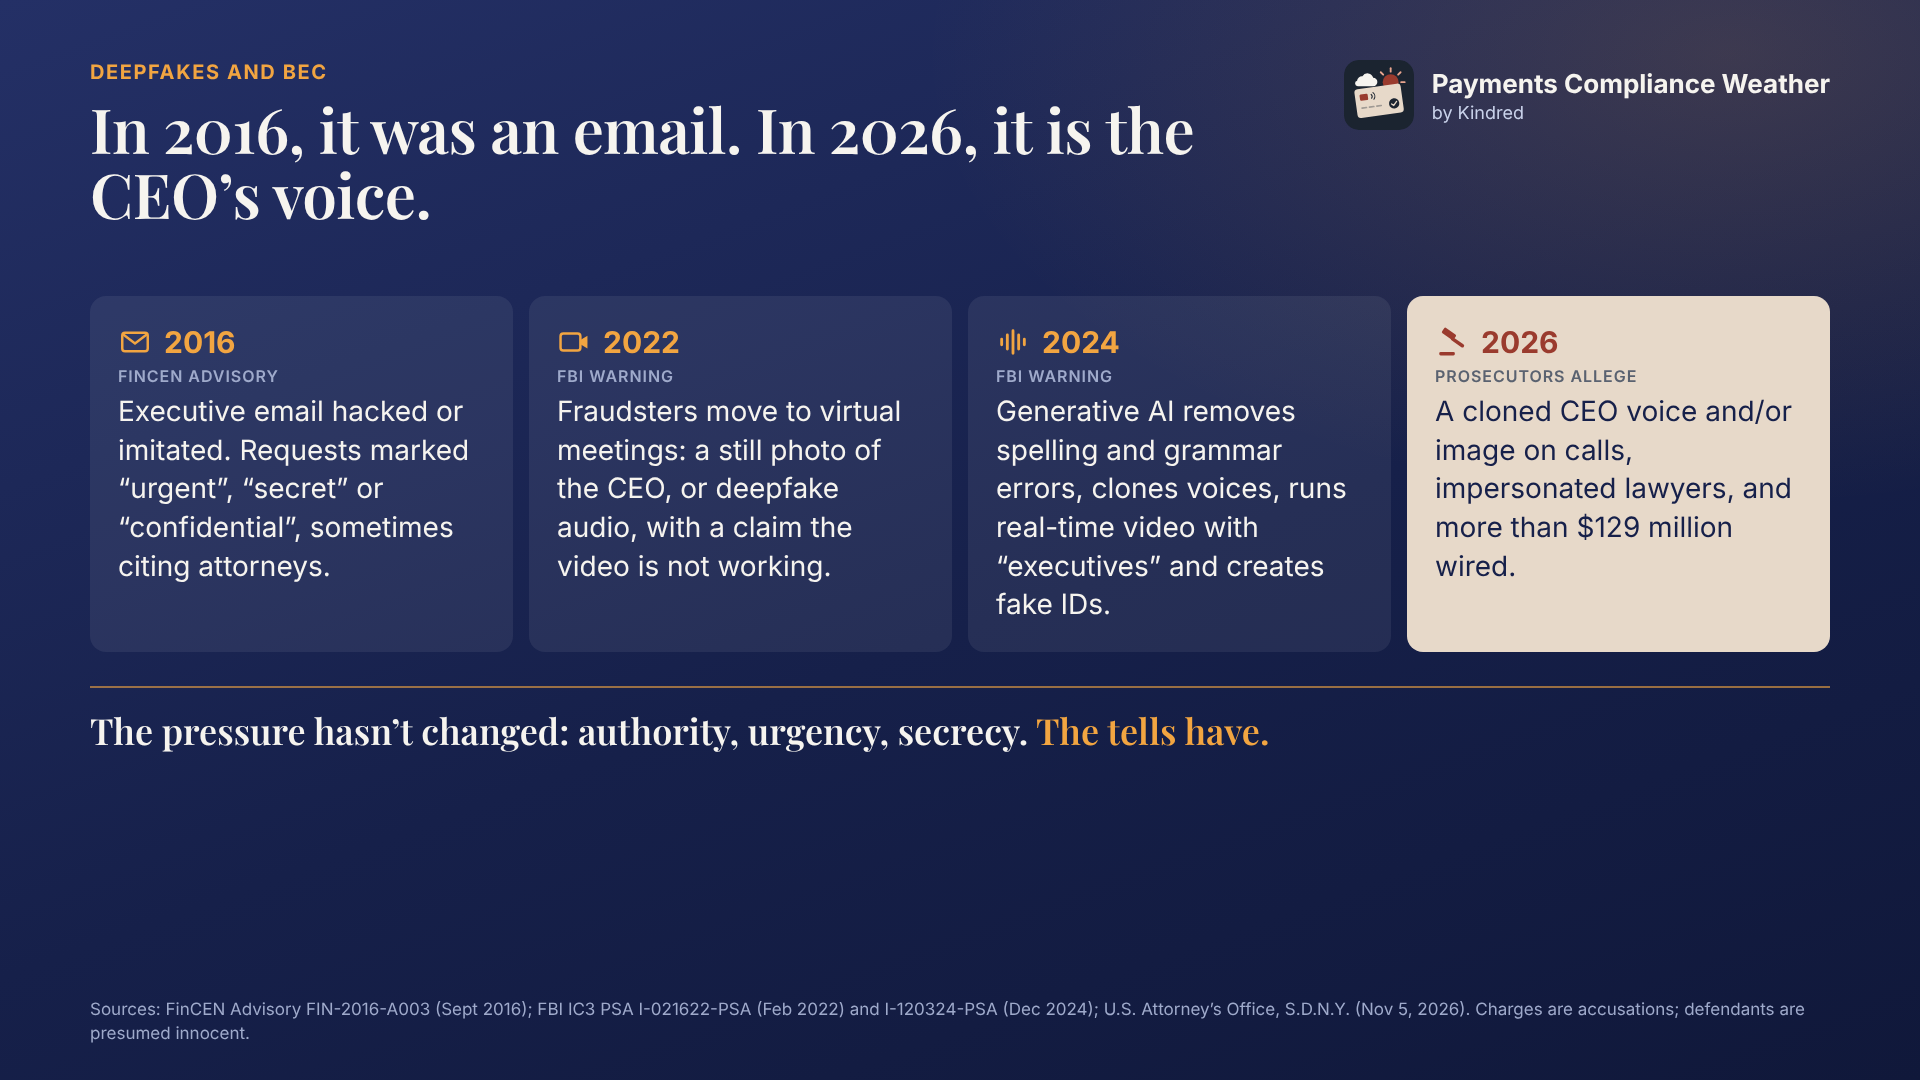
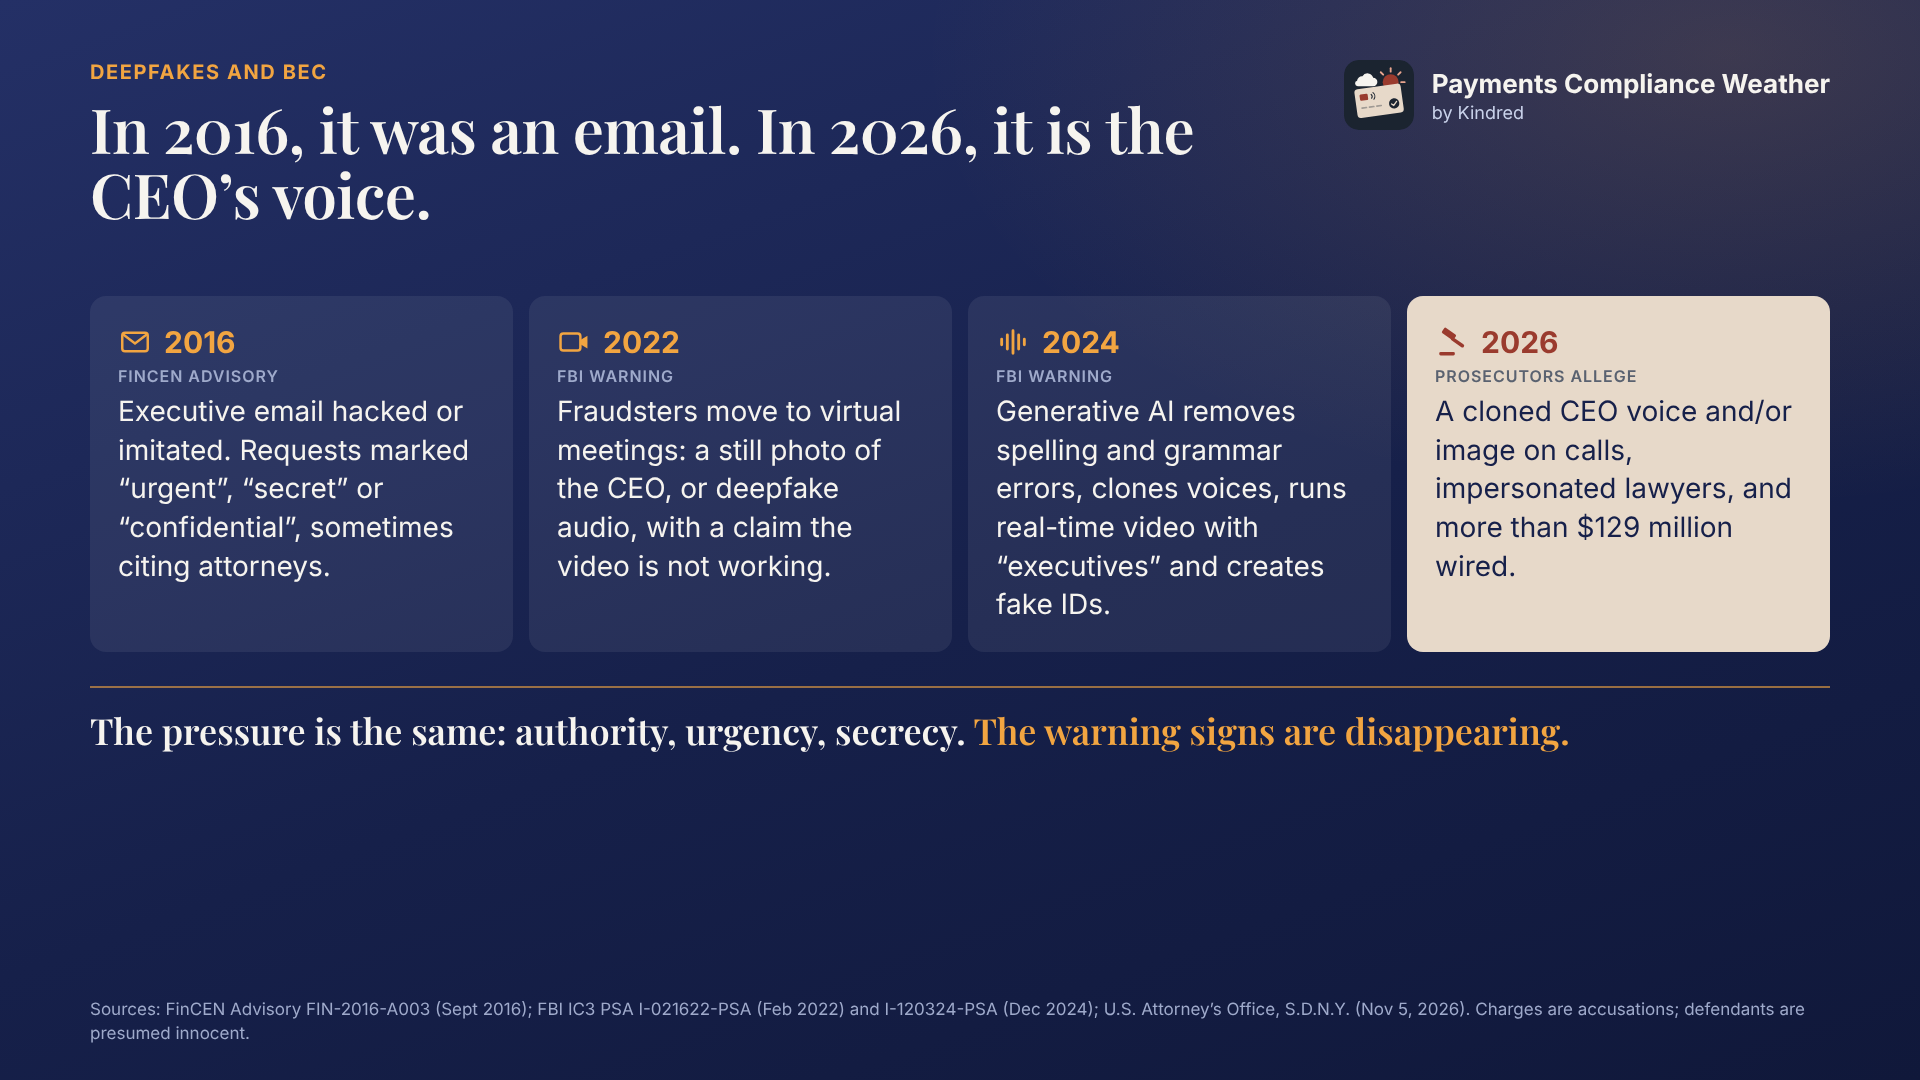
Clearer closing line on timeline
Claude-Session: https://claude.ai/code/session_01Ku5heUpjigKdLqPfQp8BWG

Changed region(s): [[0.1562, 0.6722, 0.8125, 0.7028]]

diff --git a/article-ai-impersonation-wire-fraud.html b/article-ai-impersonation-wire-fraud.html
@@ -70,7 +70,7 @@
         <li><strong>2022:</strong> the FBI <a href="https://www.ic3.gov/PSA/2022/PSA220216" target="_blank" rel="noopener">reported</a> fraudsters moving to virtual meetings, showing a still picture of the CEO or using deepfake audio and claiming the video was not working.</li>
         <li><strong>2024:</strong> the FBI <a href="https://www.ic3.gov/PSA/2024/PSA241203" target="_blank" rel="noopener">warned</a> that generative AI lets criminals limit spelling and grammar errors, clone voices, hold real-time video chats posing as company executives and create fake identity documents, at a larger scale.</li>
       </ul>
-      <p><strong>The pressure hasn&rsquo;t changed: authority, urgency, secrecy. The tells have.</strong></p>
+      <p><strong>The pressure is the same: authority, urgency, secrecy. The warning signs are disappearing.</strong></p>
       <figure class="post-photo art-cover"><img src="articles/img/pcw-impersonation-timeline-1920x1080.png" alt="Timeline: In 2016, it was an email. In 2026, it is the CEO&rsquo;s voice. 2016 FinCEN advisory, 2022 FBI warning, 2024 FBI warning, 2026 charges." width="1920" height="1080" loading="lazy"></figure>
       <h2>How it maps to known typologies</h2>
       <div class="art-table"><table>
